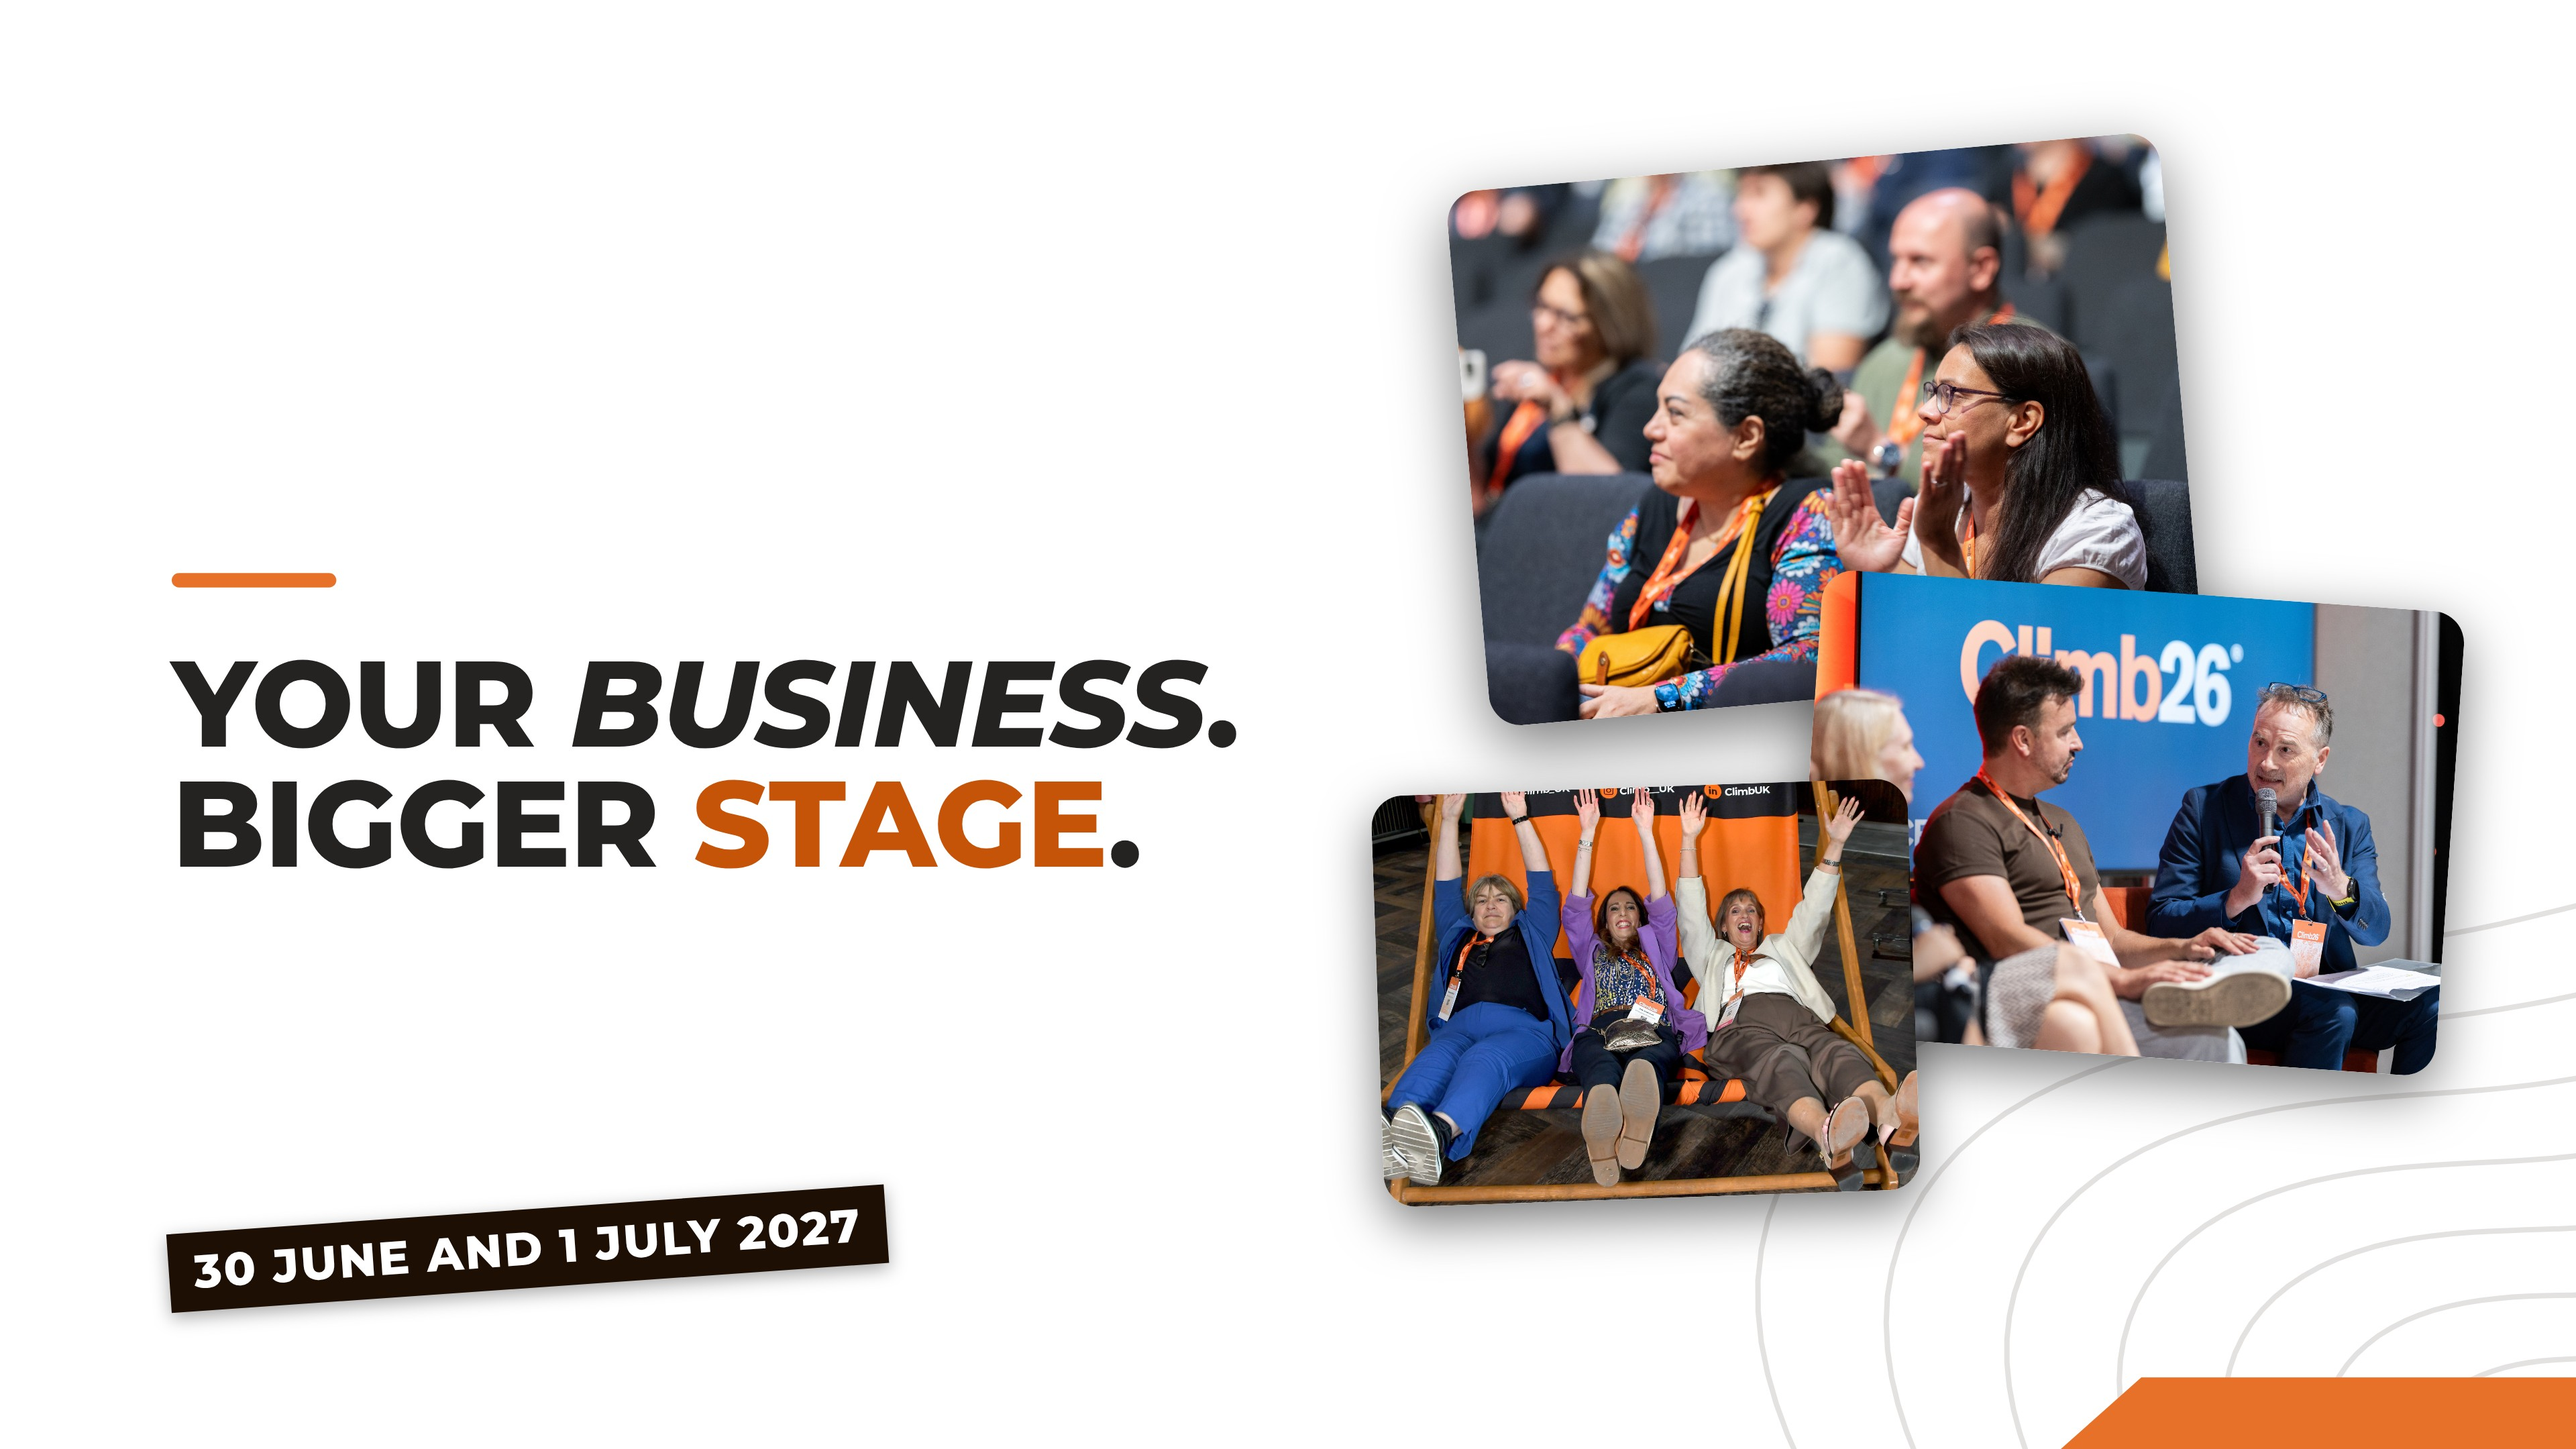
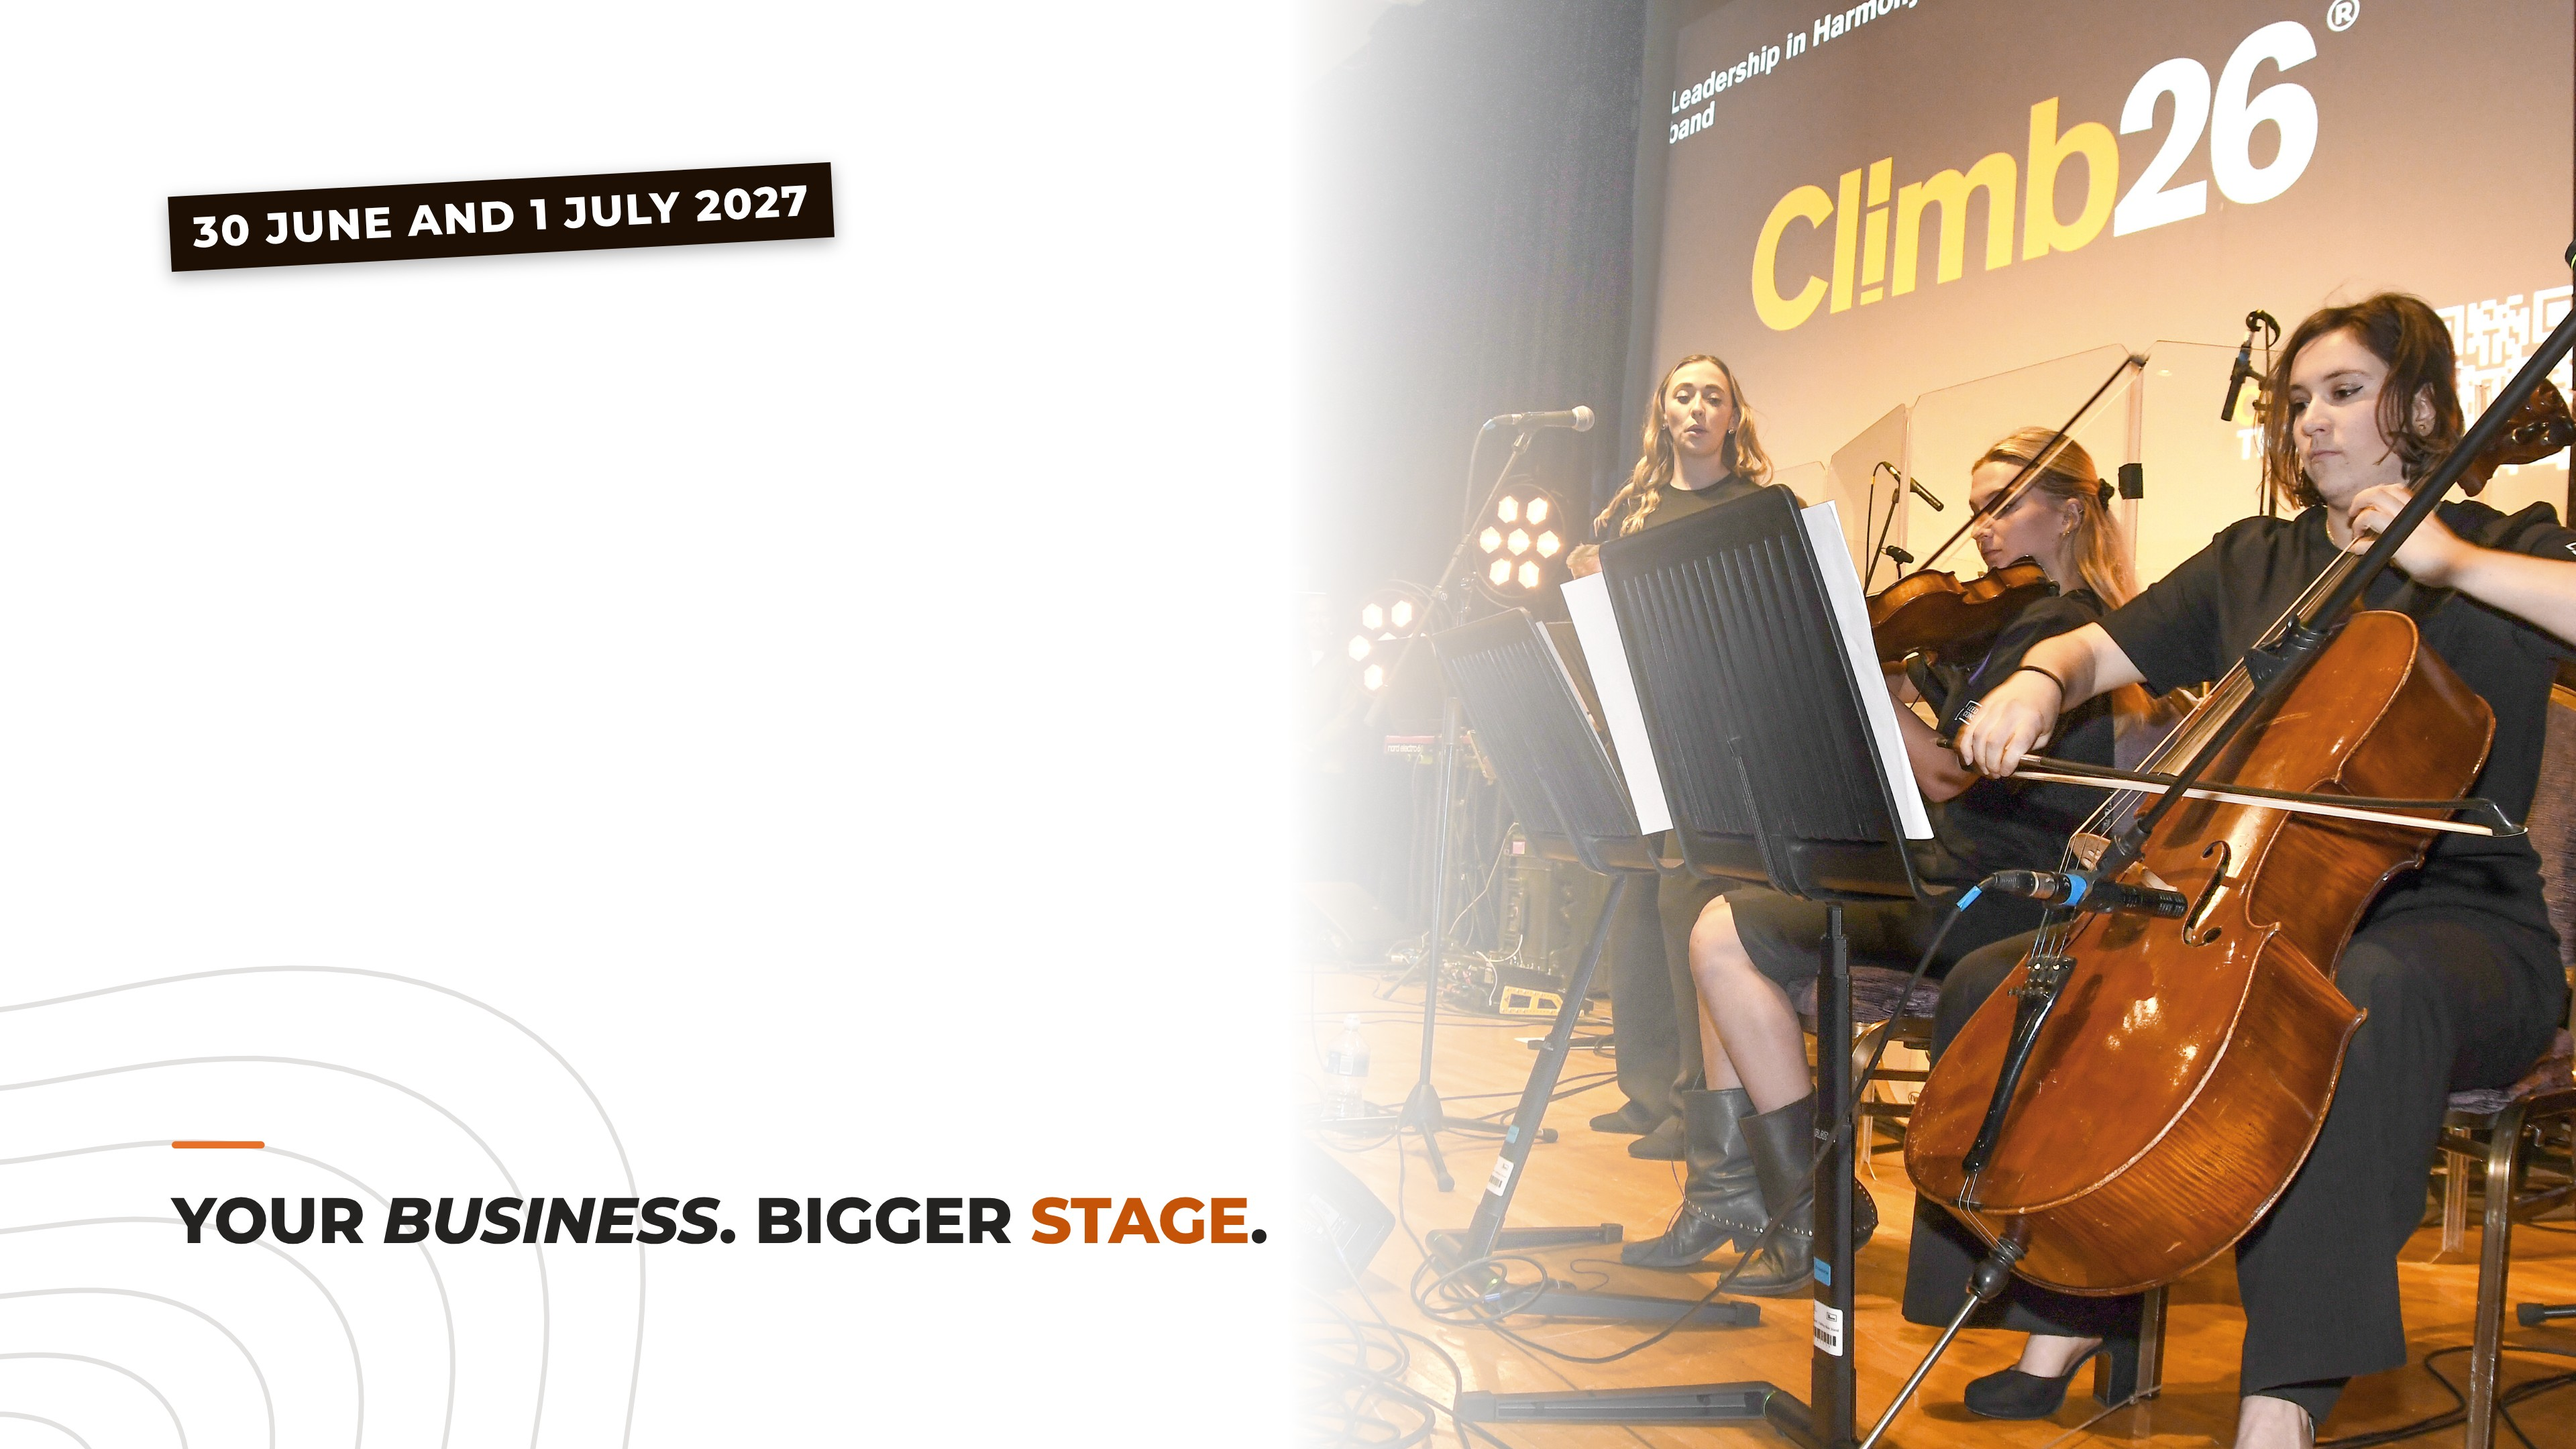
fix(templates): keep the Teams theme images clear of the join screen
Teams draws the theme logo, meeting title and the camera and audio panels
over the middle of the theme image and crops the top and bottom on wide
windows, which cut the brand line off on a live join screen. The line now
runs in one line along the bottom band on the solid half, the sticker sits
top left, and the photo fills the right half beside the panels.

Claude-Session: https://claude.ai/code/session_012PH8ARFRYyuZKd9iZTebaj

diff --git a/templates/m365/_build/build_m365.py b/templates/m365/_build/build_m365.py
@@ -121,39 +121,35 @@ def theme_sticker(brand):
 
 
 def theme_image(brand, mode, scale, label):
-    """Meeting theme image, laid out at the recommended 1440x810. Dark: a Climb26 photo under a Dark Brown fade with
-    the orange glow and the brand line on the solid side. Light: White ground, tilted photo cards, Charcoal line with
-    the orange word in Orange Text (4.6:1, so the line passes even at small display sizes)."""
+    """Meeting theme image, laid out at the recommended 1440x810. Teams shows it behind the join screen, with the
+    theme logo and meeting title at the top centre and the camera and audio panels over the middle (about 22 to 78
+    percent across and down), and crops the top and bottom on wide windows. So the middle stays photo and glow only:
+    the brand line runs in one line along the bottom band on the solid left half, the sticker sits top left, and the
+    photo fills the right half under a fade, where it shows beside the panels. Dark: Dark Brown fade and the orange glow. Light: White fade, Charcoal line with the orange word in
+    Orange Text (4.6:1)."""
     w, h = 1440, 810
     b = B[brand]
     K = P.Kit(C, brand, scale)
-    p = []
-    if mode == "dark":
-        p.append(K.pic(b["dark_photo"], int(w * 0.34), 0, w - int(w * 0.34), h, pos=b["dark_pos"],
-                       fade=P.fade("to right", 0, 70, 1.0, 0.0)))
+    dark = mode == "dark"
+    rgb = DB_RGB if dark else "255,255,255"
+    p = [K.pic(b["dark_photo"], int(w * 0.5), 0, w - int(w * 0.5), h, pos=b["dark_pos"],
+               fade=P.fade("to right", 0, 45, 1.0, 0.0, rgb=rgb))]
+    if dark:
         p.append(P.glow(w, h, w, 0, w * 0.5, 0.42))
-        p.append(F.svg(w, h, M.contours(w, h, seed=21, rings=8, dark=True, marker=False, cx=-0.05, cy=1.08)))
-        p.append(P.head(b["line"], 96, h * 0.5, 92, 600, anchor="top", lh=0.98).replace(
-            "top:%.0fpx" % (h * 0.5), "top:%.0fpx;transform:translateY(-50%%)" % (h * 0.5)))
-        p.append(P.sticker(theme_sticker(brand), 96, h - 120, 26, rot=-4))
-        p.append(F.grain_layer(w, h, 31, 0.06))
-        ground = "dark-brown"
+    p.append(F.svg(w, h, M.contours(w, h, seed=21, rings=8, dark=dark, marker=False, cx=-0.05, cy=1.08)))
+    line = " ".join(b["line"])
+    if dark:
+        hd = P.head([line], 96, 632, 52, 620, anchor="top", lh=1.0)
     else:
-        cards = b["cards"]
-        p.append(F.svg(w, h, M.contours(w, h, seed=22, rings=9, dark=False, marker=False, cx=1.05, cy=1.1)))
-        p.append(F.svg(w, h, M.slabs(w, h, corners=("br",), length=w * 0.2, thick=h * 0.05)))
-        p.append(K.pic(cards[0], 820, 90, 400, 300, rot=-5, radius=18, shadow=True))
-        p.append(K.pic(cards[1], 1010, 330, 360, 260, rot=4, radius=18, shadow=True))
-        p.append(K.pic(cards[2], 770, 440, 300, 230, rot=-2, radius=18, shadow=True))
-        line = [l.replace("[[", "{{").replace("]]", "}}") for l in b["line"]]
-        hd = P.head(line, 96, h * 0.5, 92, 600, anchor="top", colour=CH, lh=0.98)
-        hd = hd.replace("top:%.0fpx" % (h * 0.5), "top:%.0fpx;transform:translateY(-50%%)" % (h * 0.5))
+        hd = P.head([line.replace("[[", "{{").replace("]]", "}}")], 96, 632, 52, 620, anchor="top", colour=CH, lh=1.0)
         hd = hd.replace("{{", '<span style="color:%s">' % OR_TEXT).replace("}}", "</span>")
-        p.append(hd)
-        p.append(P.sticker(theme_sticker(brand), 96, h - 120, 26, rot=-4, tone="brown"))
-        ground = "white"
+    p.append(hd)
+    p.append(P.sticker(theme_sticker(brand), 96, 110, 24, rot=-3, tone="orange" if dark else "brown"))
+    if dark:
+        p.append(F.grain_layer(w, h, 31, 0.06))
     copy = [F.plain(l) for l in b["line"]] + [theme_sticker(brand)]
-    add("%s_teams-theme_image-%s_%s" % (brand.lower(), mode, label), w, h, p, copy, scale=scale, ground=ground)
+    add("%s_teams-theme_image-%s_%s" % (brand.lower(), mode, label), w, h, p, copy, scale=scale,
+        ground="dark-brown" if dark else "white")
 
 
 # ---------------------------------------------------------------- Organisation backgrounds

diff --git a/templates/m365/README.md b/templates/m365/README.md
@@ -8,7 +8,7 @@ Sizes and limits were checked against Microsoft's documentation on 10 October 20
 
 | Folder | What it holds |
 | --- | --- |
-| `teams-themes/<Brand>/` | Meeting theme logo (dark and light, 800x800 PNG) and theme image (dark and light, 1440x810 JPG plus a 3840x2160 JPG) |
+| `teams-themes/<Brand>/` | Meeting theme logo (dark and light, 800x800 PNG) and theme image (dark and light, 1440x810 JPG plus a 3840x2160 JPG; the middle stays clear for the join screen panels, the line runs along the bottom) |
 | `teams-themes/reactions/<set>/` | Branded reactions for all five slots (Like, Heart, Applause, Laugh, Surprised) in three sets: `mixed` (each reaction in its own palette so they are told apart at a glance: Like on Climb Orange, Heart on Dark Brown, Applause on Charcoal, Laugh on Orange Tint, Surprised on White), `orange` (Climb Orange disc, Dark Brown drawing) and `dark` (Dark Brown disc ringed in Climb Orange, orange drawing). Each has a static 100x100 PNG and an animated 100x5100 sprite (51 frames, 24 fps) |
 | `teams-backgrounds/<Brand>/` | 14 meeting backgrounds per brand, 42 in all, 3840x2160 JPG: 10 festival layouts (stage-light, contours, connections, ascent, spotlight, summit, orbit, network, and the light pair ascent-light and contours-light) and 4 calm ones (calm-dark, calm-glow, calm-light, calm-white) |
 | `org-theme/` | Navigation bar logos per brand: default (full colour reversed) and alternative (one-colour white), as SVG and as 200x48 PNG, all under 10 KB |
